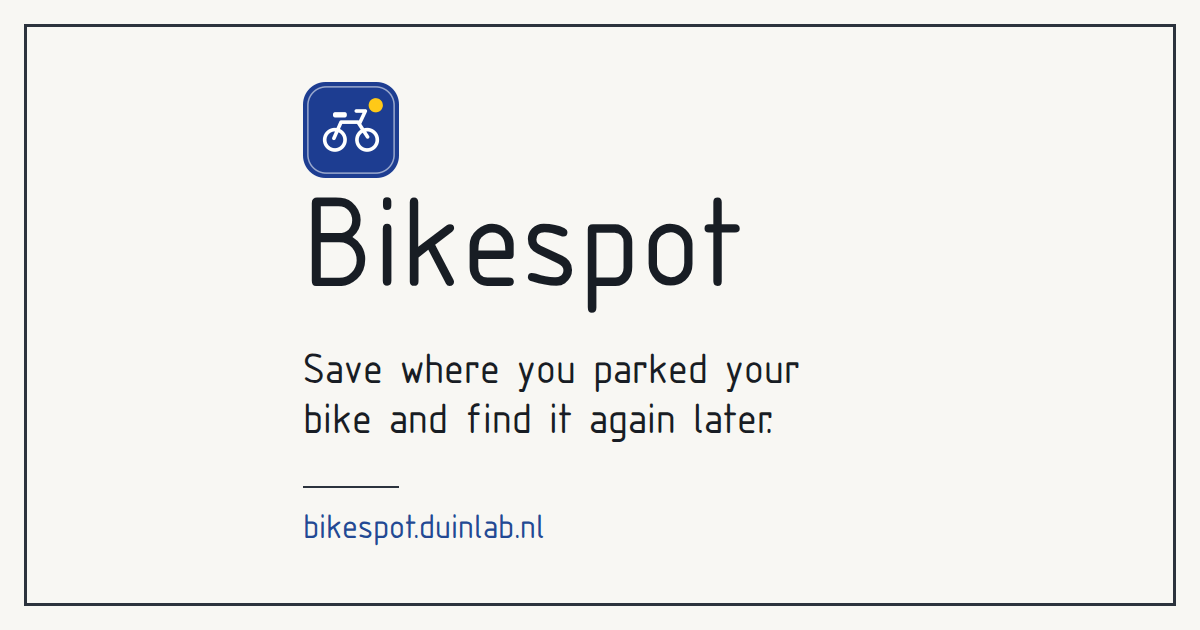
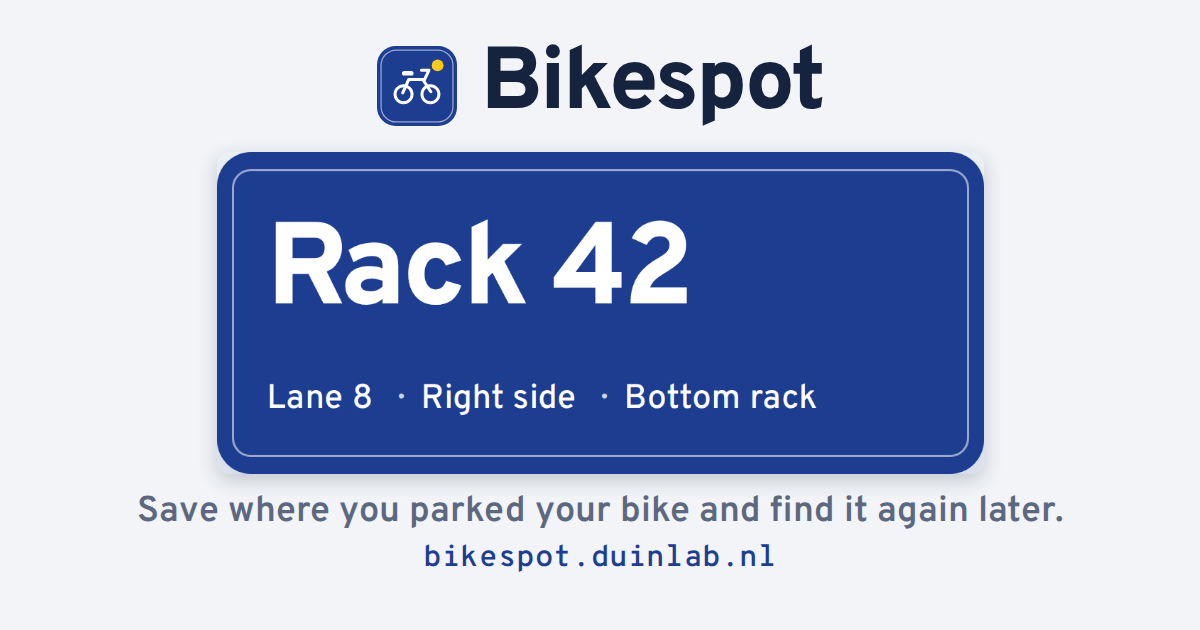
feat: draw the social card from the app's spot sign (#113)
* feat(og): draw the social card from the app's own station sign

- docs/og-card.html is the source; og-card renders public/og.png, og-card:capture re-captures the sign and spot map at 3x from seeded demo data
- og:image:alt and the README card section describe the new card

* fix(og): drop a stray debug screenshot from the capture script

---------

diff --git a/docs/og-card.html b/docs/og-card.html
@@ -1,0 +1,52 @@
+<!doctype html>
+<!-- Source of public/og.png (1200x630). Render with `pnpm og-card`; the app elements in
+     docs/og-card/ come from `pnpm og-card:capture`. `pnpm og-card --option map` draws the other layout. -->
+<html lang="en">
+<head>
+<meta charset="utf-8" />
+<title>Bikespot social card</title>
+<style>
+  @font-face { font-family: "Overpass"; font-weight: 100 900;
+    src: url("../node_modules/@fontsource-variable/overpass/files/overpass-latin-wght-normal.woff2") format("woff2"); }
+  @font-face { font-family: "Overpass Mono"; font-weight: 100 900;
+    src: url("../node_modules/@fontsource-variable/overpass-mono/files/overpass-mono-latin-wght-normal.woff2") format("woff2"); }
+  :root {
+    --sign: #1d3d91; --signal: #ffc917; --concrete: #f2f4f7; --ink: #16233f; --muted: #5c6880;
+    --keyline: rgba(255, 255, 255, 0.55);
+  }
+  * { box-sizing: border-box; margin: 0; }
+  html, body { width: 1200px; height: 630px; overflow: hidden; }
+  body { position: relative; font-family: "Overpass", sans-serif; background: var(--concrete); color: var(--ink); }
+  .brand { position: absolute; top: 42px; left: 0; right: 0; display: flex; align-items: center; justify-content: center; gap: 24px; }
+  .brand img { width: 80px; height: 80px; }
+  .brand b { font-size: 88px; font-weight: 800; letter-spacing: -0.03em; line-height: 1; }
+  .line { position: absolute; top: 490px; left: 60px; right: 60px; text-align: center; font-size: 36px; font-weight: 600; line-height: 1.25; color: var(--muted); }
+  .addr { position: absolute; top: 540px; left: 0; right: 0; text-align: center; font-family: "Overpass Mono", monospace; font-size: 30px; font-weight: 600; letter-spacing: 0.02em; color: var(--sign); }
+  .proof { position: absolute; top: 152px; display: flex; align-items: center; overflow: hidden; }
+  .proof img { display: block; }
+
+  /* sign: the real current-spot sign, captured at 3x */
+  .proof-map, .sign .proof-map { display: none; }
+  .map .proof-sign { display: none; }
+  .map .proof-map { display: flex; }
+  .sign .proof-sign { left: 217px; width: 767px; height: 322px; border-radius: 14px; box-shadow: 0 6px 20px rgba(22, 35, 63, 0.22); }
+  .sign .proof-sign img { width: 767px; }
+
+  /* map: the real spot map and route line on a plate, on a sign-blue field with the sign's keyline */
+  .map { background: var(--sign); color: #fff; }
+  .map::before { content: ""; position: absolute; inset: 14px; border: 2px solid var(--keyline); border-radius: 22px; }
+  .map .line, .map .addr { color: rgba(255, 255, 255, 0.88); }
+  .map .brand img { box-shadow: 0 0 0 3px var(--keyline); border-radius: 22px; }
+  .map .proof-map { left: 94px; width: 1012px; height: 322px; padding: 24px; gap: 30px; background: #fff; border-radius: 16px; box-shadow: 0 6px 20px rgba(0, 0, 0, 0.25); }
+  .map .proof-map img:first-child { height: 274px; border-radius: 10px; }
+  .map .proof-map img:last-child { width: 538px; }
+</style>
+</head>
+<body>
+<div class="brand"><img src="../public/icons/icon.svg" alt="" /><b>Bikespot</b></div>
+<p class="line">Save where you parked your bike and find it again later.</p>
+<div class="proof proof-sign"><img src="og-card/sign.png" alt="" /></div>
+<div class="proof proof-map"><img src="og-card/map.png" alt="" /><img src="og-card/distance.png" alt="" /></div>
+<span class="addr">bikespot.duinlab.nl</span>
+</body>
+</html>

diff --git a/index.html b/index.html
@@ -18,7 +18,7 @@
     <meta property="og:image" content="https://bikespot.duinlab.nl/og.png" />
     <meta property="og:image:width" content="1200" />
     <meta property="og:image:height" content="630" />
-    <meta property="og:image:alt" content="Bikespot: save where you parked your bike and find it again later, at bikespot.duinlab.nl, with the app icon above the name, a white bicycle on a blue tile." />
+    <meta property="og:image:alt" content="Bikespot: save where you parked your bike and find it again later. The card shows the app's blue station sign reading Rack 42, Lane 8, Right side, Bottom rack." />
     <meta name="twitter:card" content="summary_large_image" />
     <title>Bikespot</title>
   </head>

diff --git a/README.md b/README.md
@@ -40,15 +40,17 @@ pnpm dev
 
 ## Social card
 
-`public/og.png` is the 1200x630 card shown when the link is shared. It is made with the generator in
-[my site repo](https://github.com/simonvanlierde/simonvanlierde.github.io/tree/main/scripts/social-card)
-(needs Docker). From a checkout of that repo, with this repo next to it:
+`public/og.png` is the 1200x630 card shown when the link is shared. It shows the current-spot sign,
+captured from the app. The source is [docs/og-card.html](docs/og-card.html); the captures it uses are in
+`docs/og-card/`.
 
 ```sh
-pnpm gen:card --mark ../bikespot/public/icons/icon.svg --name "Bikespot" \
-  --line "Save where you parked your bike and find it again later." \
-  --domain bikespot.duinlab.nl --out ../bikespot/public/og.png
+pnpm og-card:capture   # capture the sign and map from the app, with demo data, at 3x
+pnpm og-card           # render docs/og-card.html to public/og.png
 ```
+
+`pnpm og-card --option map` draws the other layout (the spot map and the distance to the bike). The build
+adds the PNG's hash to the `og:image` URL, so a changed card gets a new URL.
 
 ## Deploy
 
